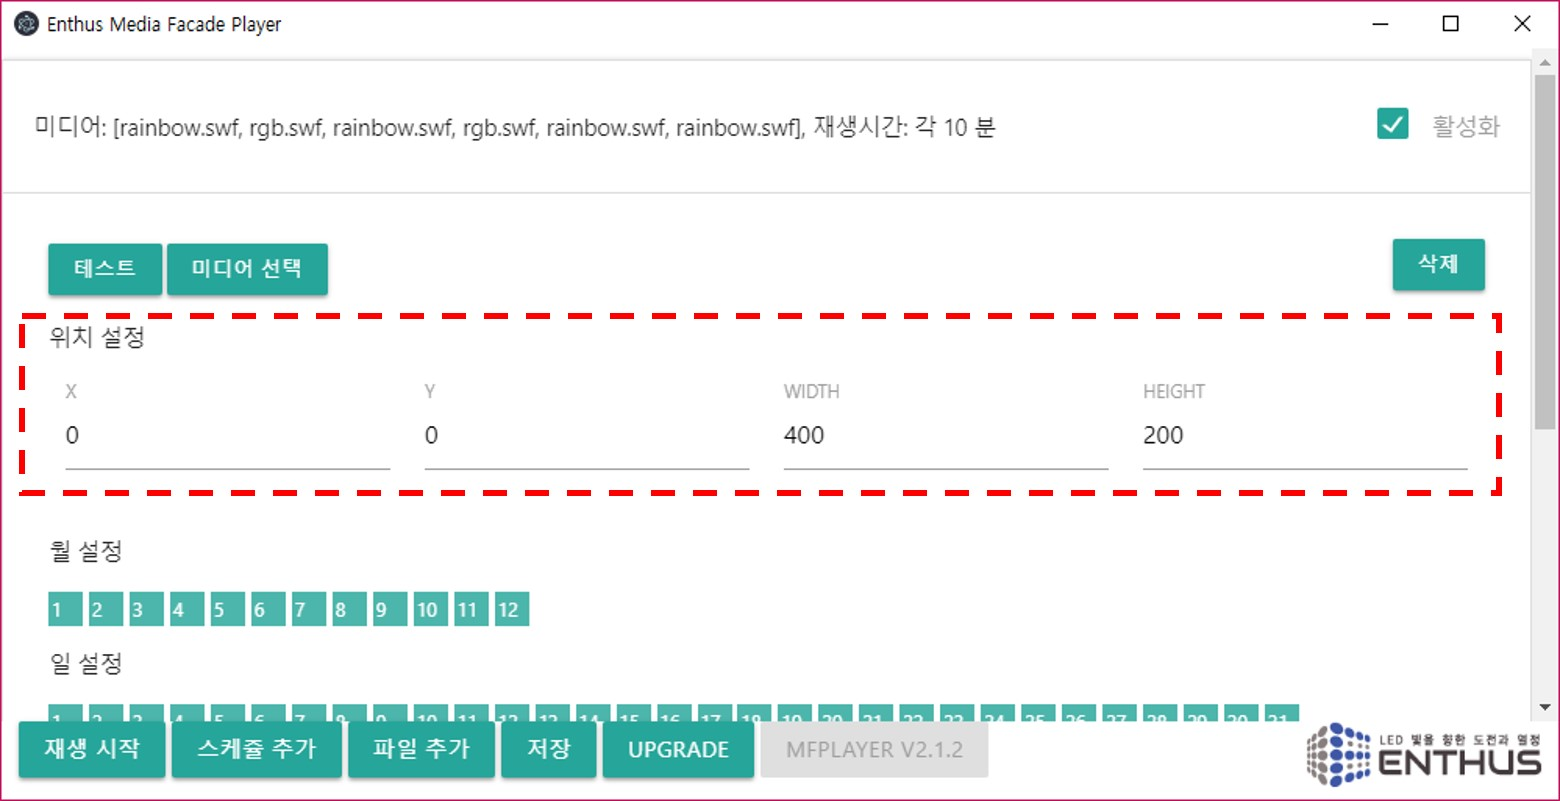
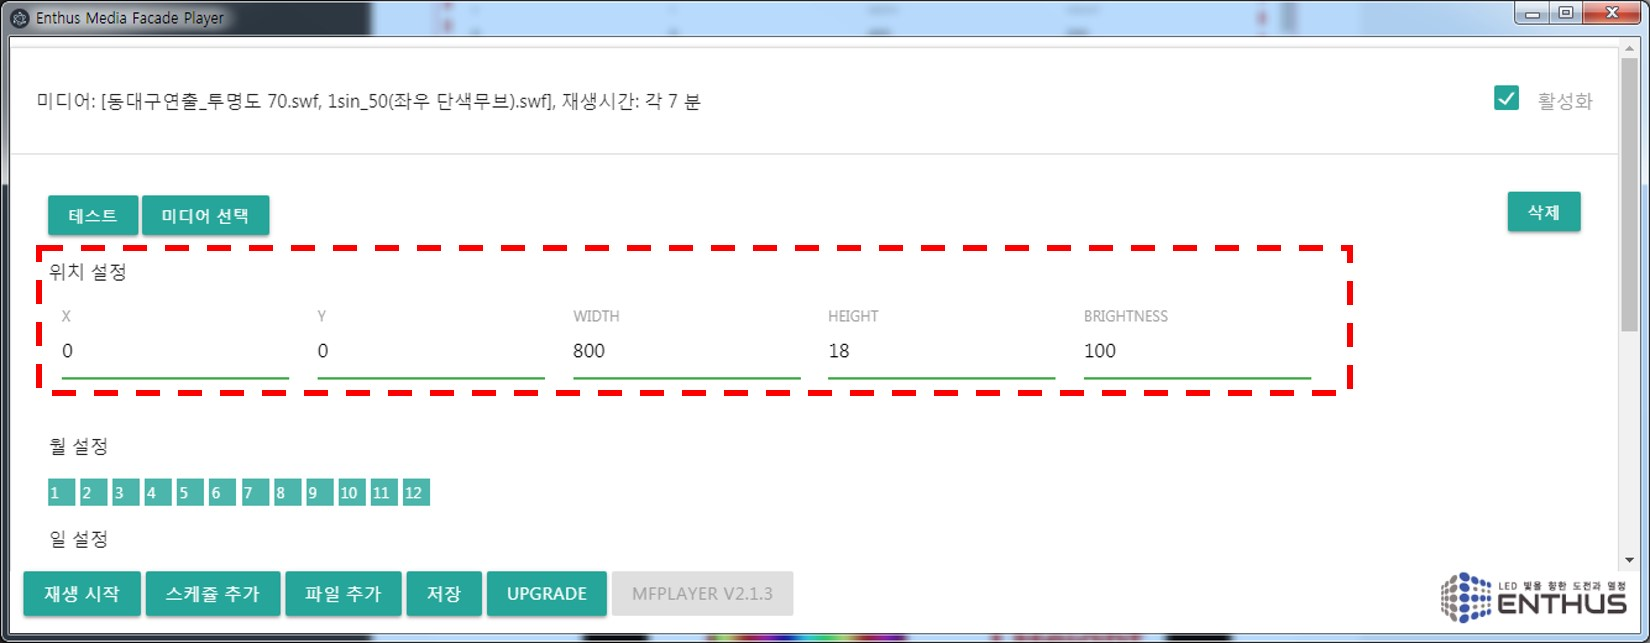
add brightness

diff --git a/docs/position.md b/docs/position.md
@@ -2,7 +2,7 @@
 
 ![](img/position_setting.jpg)
 
-X / Y 는 미디어 재생 화면의 가로 세로 위치를, Height / Width 는 재생화면의 가로 세로 크기를 각각 설정합니다.
+X / Y 는 미디어 재생 화면의 가로 세로 위치를, Height / Width 는 재생화면의 가로 세로 크기를 각각 설정합니다. Brightness 값을 조정하면 연출 미디어의 밝기를 변경됩니다. Brightness 는 0 ~ 100 % 밝기로 조절됩니다.
 
 ![](img/position.jpg)
 
